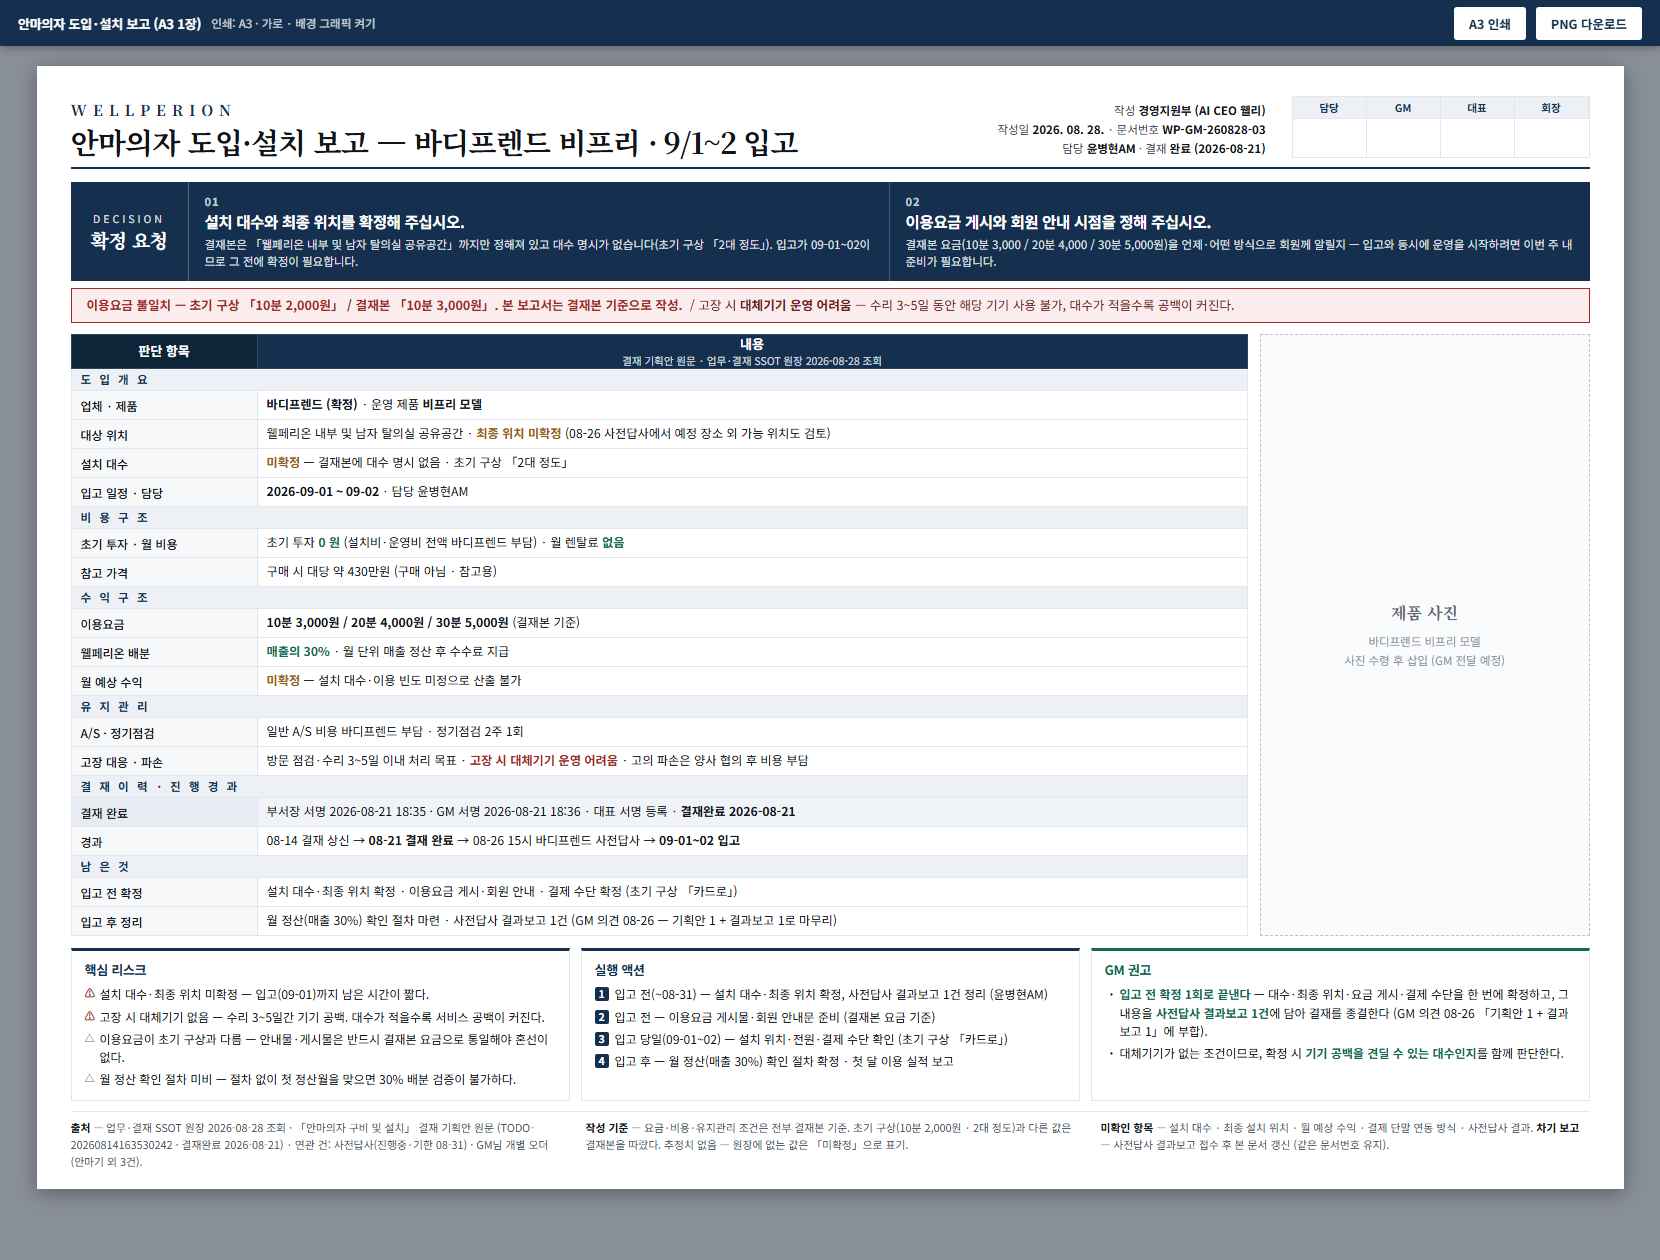
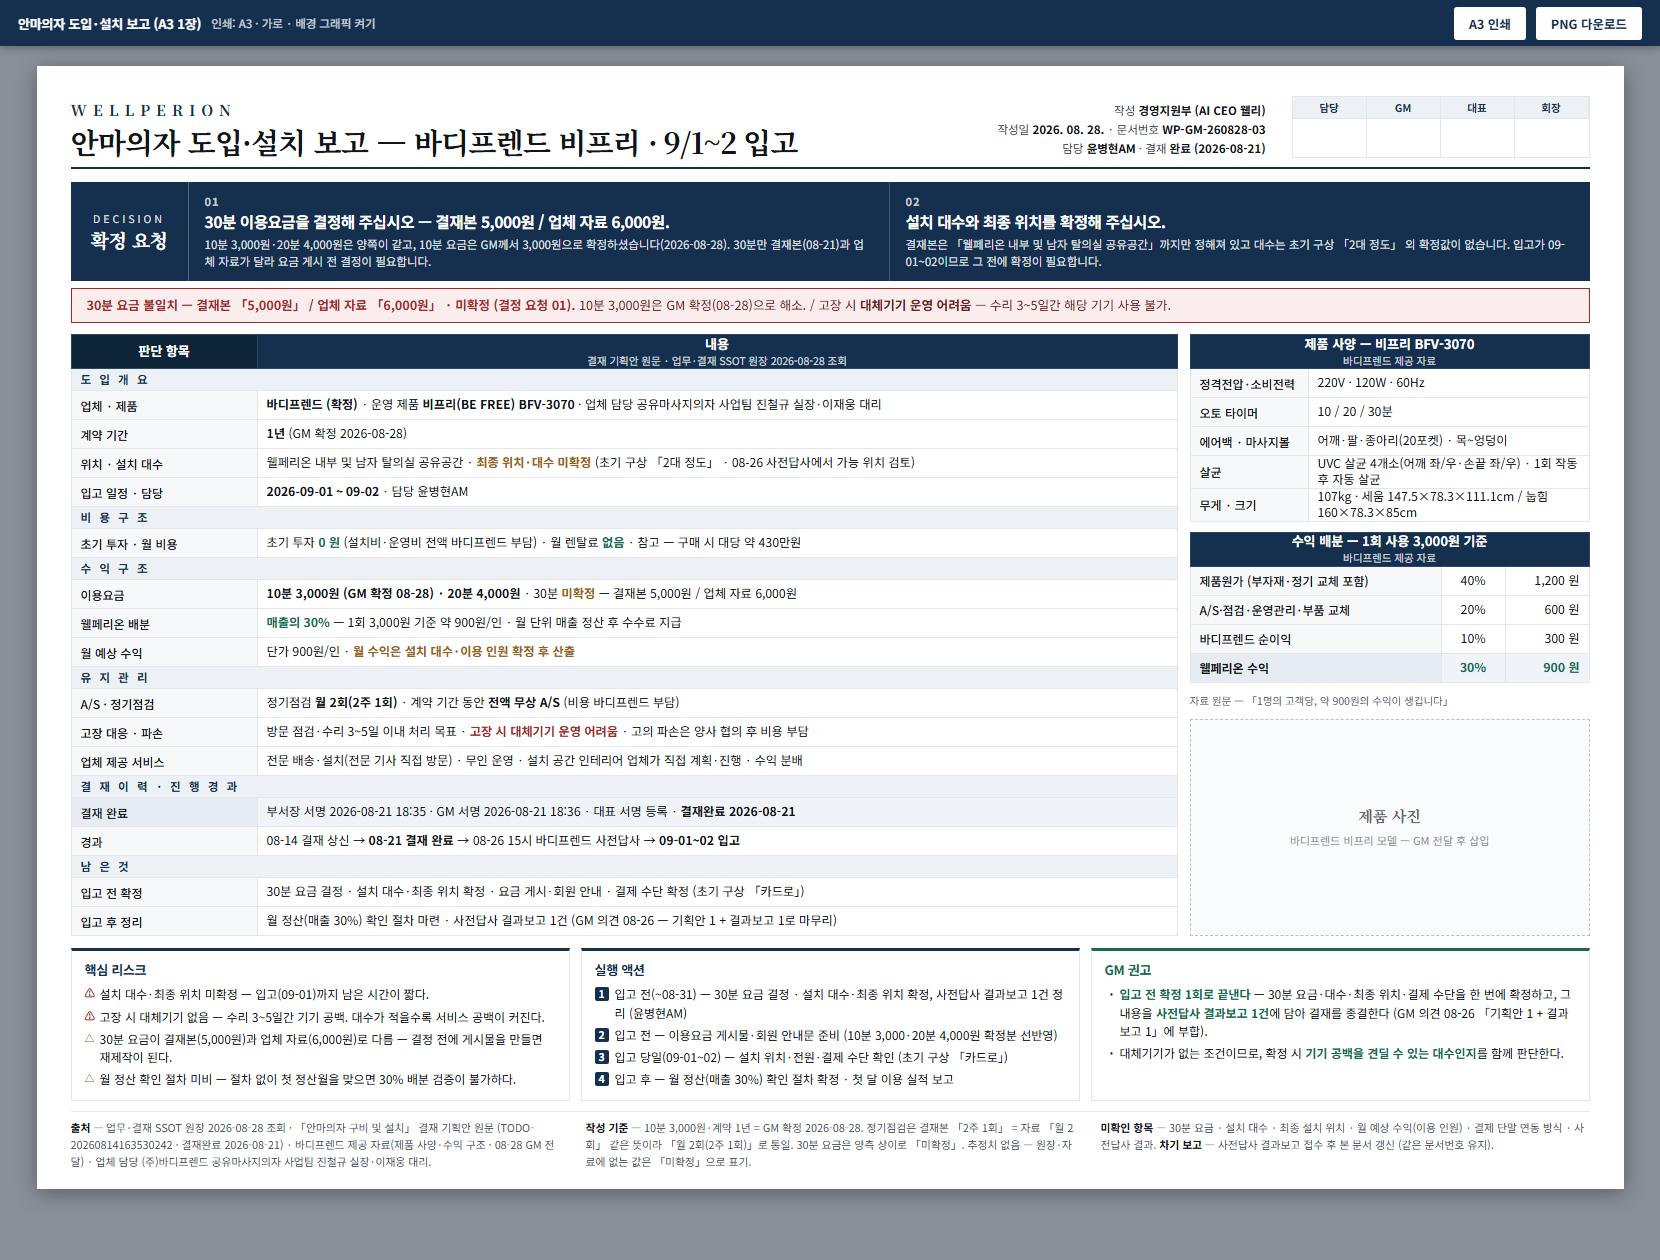
docs(ceo): 안마의자 A3 갱신 — 제품사양·수익배분 반영, 1년계약·10분 3,000원 GM 확정, 30분 요금 결정요청 (2026-08-28)

diff --git a/3. 웰페리온 가이드/reports/260828_안마의자_도입설치_A3.html b/3. 웰페리온 가이드/reports/260828_안마의자_도입설치_A3.html
@@ -146,21 +146,21 @@
     <div class="items">
       <div class="it">
         <div class="n">01</div>
-        <div class="q">설치 대수와 최종 위치를 확정해 주십시오.</div>
-        <div class="d">결재본은 「웰페리온 내부 및 남자 탈의실 공유공간」까지만 정해져 있고 대수 명시가 없습니다(초기 구상 「2대 정도」). 입고가 09-01~02이므로 그 전에 확정이 필요합니다.</div>
+        <div class="q">30분 이용요금을 결정해 주십시오 — 결재본 5,000원 / 업체 자료 6,000원.</div>
+        <div class="d">10분 3,000원·20분 4,000원은 양쪽이 같고, 10분 요금은 GM께서 3,000원으로 확정하셨습니다(2026-08-28). 30분만 결재본(08-21)과 업체 자료가 달라 요금 게시 전 결정이 필요합니다.</div>
       </div>
       <div class="it">
         <div class="n">02</div>
-        <div class="q">이용요금 게시와 회원 안내 시점을 정해 주십시오.</div>
-        <div class="d">결재본 요금(10분 3,000 / 20분 4,000 / 30분 5,000원)을 언제·어떤 방식으로 회원께 알릴지 — 입고와 동시에 운영을 시작하려면 이번 주 내 준비가 필요합니다.</div>
+        <div class="q">설치 대수와 최종 위치를 확정해 주십시오.</div>
+        <div class="d">결재본은 「웰페리온 내부 및 남자 탈의실 공유공간」까지만 정해져 있고 대수는 초기 구상 「2대 정도」 외 확정값이 없습니다. 입고가 09-01~02이므로 그 전에 확정이 필요합니다.</div>
       </div>
     </div>
   </div>
 
   <!-- 경고 밴드 -->
   <div class="alert">
-    이용요금 불일치 — 초기 구상 「10분 2,000원」 / 결재본 「10분 3,000원」. 본 보고서는 결재본 기준으로 작성.
-    <span>&nbsp;/ 고장 시 <b>대체기기 운영 어려움</b> — 수리 3~5일 동안 해당 기기 사용 불가, 대수가 적을수록 공백이 커진다.</span>
+    30분 요금 불일치 — 결재본 「5,000원」 / 업체 자료 「6,000원」 · 미확정 (결정 요청 01).
+    <span>10분 3,000원은 GM 확정(08-28)으로 해소.&nbsp;/ 고장 시 <b>대체기기 운영 어려움</b> — 수리 3~5일간 해당 기기 사용 불가.</span>
   </div>
 
   <!-- ③ 표 + 사진 자리 -->
@@ -176,37 +176,61 @@
     </thead>
     <tbody>
       <tr class="grp"><td colspan="2">도 입 개 요</td></tr>
-      <tr><td class="k">업체 · 제품</td><td><b>바디프렌드 (확정)</b> · 운영 제품 <b>비프리 모델</b></td></tr>
-      <tr><td class="k">대상 위치</td><td>웰페리온 내부 및 남자 탈의실 공유공간 · <span class="warn">최종 위치 미확정</span> (08-26 사전답사에서 예정 장소 외 가능 위치도 검토)</td></tr>
-      <tr><td class="k">설치 대수</td><td><span class="warn">미확정</span> — 결재본에 대수 명시 없음 · 초기 구상 「2대 정도」</td></tr>
+      <tr><td class="k">업체 · 제품</td><td><b>바디프렌드 (확정)</b> · 운영 제품 <b>비프리(BE FREE) BFV-3070</b> · 업체 담당 공유마사지의자 사업팀 진철규 실장·이재웅 대리</td></tr>
+      <tr><td class="k">계약 기간</td><td><b>1년</b> (GM 확정 2026-08-28)</td></tr>
+      <tr><td class="k">위치 · 설치 대수</td><td>웰페리온 내부 및 남자 탈의실 공유공간 · <span class="warn">최종 위치·대수 미확정</span> (초기 구상 「2대 정도」 · 08-26 사전답사에서 가능 위치 검토)</td></tr>
       <tr><td class="k">입고 일정 · 담당</td><td><b>2026-09-01 ~ 09-02</b> · 담당 윤병현AM</td></tr>
 
       <tr class="grp"><td colspan="2">비 용 구 조</td></tr>
-      <tr><td class="k">초기 투자 · 월 비용</td><td>초기 투자 <span class="good">0 원</span> (설치비·운영비 전액 바디프렌드 부담) · 월 렌탈료 <span class="good">없음</span></td></tr>
-      <tr><td class="k">참고 가격</td><td>구매 시 대당 약 430만원 (구매 아님 · 참고용)</td></tr>
+      <tr><td class="k">초기 투자 · 월 비용</td><td>초기 투자 <span class="good">0 원</span> (설치비·운영비 전액 바디프렌드 부담) · 월 렌탈료 <span class="good">없음</span> · 참고 — 구매 시 대당 약 430만원</td></tr>
 
       <tr class="grp"><td colspan="2">수 익 구 조</td></tr>
-      <tr><td class="k">이용요금</td><td><b>10분 3,000원 / 20분 4,000원 / 30분 5,000원</b> (결재본 기준)</td></tr>
-      <tr><td class="k">웰페리온 배분</td><td><b class="good">매출의 30%</b> · 월 단위 매출 정산 후 수수료 지급</td></tr>
-      <tr><td class="k">월 예상 수익</td><td><span class="warn">미확정</span> — 설치 대수·이용 빈도 미정으로 산출 불가</td></tr>
+      <tr><td class="k">이용요금</td><td><b>10분 3,000원 (GM 확정 08-28) · 20분 4,000원</b> · 30분 <span class="warn">미확정</span> — 결재본 5,000원 / 업체 자료 6,000원</td></tr>
+      <tr><td class="k">웰페리온 배분</td><td><b class="good">매출의 30%</b> — 1회 3,000원 기준 약 900원/인 · 월 단위 매출 정산 후 수수료 지급</td></tr>
+      <tr><td class="k">월 예상 수익</td><td>단가 900원/인 · <span class="warn">월 수익은 설치 대수·이용 인원 확정 후 산출</span></td></tr>
 
       <tr class="grp"><td colspan="2">유 지 관 리</td></tr>
-      <tr><td class="k">A/S · 정기점검</td><td>일반 A/S 비용 바디프렌드 부담 · 정기점검 2주 1회</td></tr>
+      <tr><td class="k">A/S · 정기점검</td><td>정기점검 <b>월 2회(2주 1회)</b> · 계약 기간 동안 <b>전액 무상 A/S</b> (비용 바디프렌드 부담)</td></tr>
       <tr><td class="k">고장 대응 · 파손</td><td>방문 점검·수리 3~5일 이내 처리 목표 · <span class="bad">고장 시 대체기기 운영 어려움</span> · 고의 파손은 양사 협의 후 비용 부담</td></tr>
+      <tr><td class="k">업체 제공 서비스</td><td>전문 배송·설치(전문 기사 직접 방문) · 무인 운영 · 설치 공간 인테리어 업체가 직접 계획·진행 · 수익 분배</td></tr>
 
       <tr class="grp"><td colspan="2">결 재 이 력 · 진 행 경 과</td></tr>
       <tr class="sum"><td class="k">결재 완료</td><td>부서장 서명 2026-08-21 18:35 · GM 서명 2026-08-21 18:36 · 대표 서명 등록 · <b>결재완료 2026-08-21</b></td></tr>
       <tr><td class="k">경과</td><td>08-14 결재 상신 → <b>08-21 결재 완료</b> → 08-26 15시 바디프렌드 사전답사 → <b>09-01~02 입고</b></td></tr>
 
       <tr class="grp"><td colspan="2">남 은 것</td></tr>
-      <tr><td class="k">입고 전 확정</td><td>설치 대수·최종 위치 확정 · 이용요금 게시·회원 안내 · 결제 수단 확정 (초기 구상 「카드로」)</td></tr>
+      <tr><td class="k">입고 전 확정</td><td>30분 요금 결정 · 설치 대수·최종 위치 확정 · 요금 게시·회원 안내 · 결제 수단 확정 (초기 구상 「카드로」)</td></tr>
       <tr><td class="k">입고 후 정리</td><td>월 정산(매출 30%) 확인 절차 마련 · 사전답사 결과보고 1건 (GM 의견 08-26 — 기획안 1 + 결과보고 1로 마무리)</td></tr>
     </tbody>
   </table>
   </div>
-  <div style="width:330px; flex:none; border:1.5px dashed #B9C2CC; background:#FAFBFC; display:flex; flex-direction:column; align-items:center; justify-content:center; text-align:center; padding:20px;">
-    <div style="font-family:'Noto Serif KR',serif; font-size:16px; font-weight:700; color:#5C666F;">제품 사진</div>
-    <div style="font-size:11.5px; color:#8A939C; margin-top:8px; line-height:1.6;">바디프렌드 비프리 모델<br>사진 수령 후 삽입 (GM 전달 예정)</div>
+  <div style="width:400px; flex:none; display:flex; flex-direction:column; gap:10px;">
+    <table>
+      <colgroup><col style="width:118px"><col></colgroup>
+      <thead><tr><th colspan="2">제품 사양 — 비프리 BFV-3070<span class="sub">바디프렌드 제공 자료</span></th></tr></thead>
+      <tbody>
+        <tr><td class="k">정격전압·소비전력</td><td>220V · 120W · 60Hz</td></tr>
+        <tr><td class="k">오토 타이머</td><td>10 / 20 / 30분</td></tr>
+        <tr><td class="k">에어백 · 마사지볼</td><td>어깨·팔·종아리(20포켓) · 목~엉덩이</td></tr>
+        <tr><td class="k">살균</td><td>UVC 살균 4개소(어깨 좌/우·손끝 좌/우) · 1회 작동 후 자동 살균</td></tr>
+        <tr><td class="k">무게 · 크기</td><td>107kg · 세움 147.5×78.3×111.1cm / 눕힘 160×78.3×85cm</td></tr>
+      </tbody>
+    </table>
+    <table>
+      <colgroup><col><col style="width:64px"><col style="width:84px"></colgroup>
+      <thead><tr><th colspan="3">수익 배분 — 1회 사용 3,000원 기준<span class="sub">바디프렌드 제공 자료</span></th></tr></thead>
+      <tbody>
+        <tr><td class="k">제품원가 (부자재·정기 교체 포함)</td><td class="ctr">40%</td><td class="num">1,200 원</td></tr>
+        <tr><td class="k">A/S·점검·운영관리·부품 교체</td><td class="ctr">20%</td><td class="num">600 원</td></tr>
+        <tr><td class="k">바디프렌드 순이익</td><td class="ctr">10%</td><td class="num">300 원</td></tr>
+        <tr class="sum"><td class="k strong">웰페리온 수익</td><td class="ctr strong good">30%</td><td class="num strong good">900 원</td></tr>
+      </tbody>
+    </table>
+    <div style="font-size:10.5px; color:#5C666F; line-height:1.5;">자료 원문 — 「1명의 고객당, 약 900원의 수익이 생깁니다」</div>
+    <div style="flex:1; border:1.5px dashed #B9C2CC; background:#FAFBFC; display:flex; flex-direction:column; align-items:center; justify-content:center; text-align:center; padding:14px;">
+      <div style="font-family:'Noto Serif KR',serif; font-size:15px; font-weight:700; color:#5C666F;">제품 사진</div>
+      <div style="font-size:11px; color:#8A939C; margin-top:6px; line-height:1.6;">바디프렌드 비프리 모델 — GM 전달 후 삽입</div>
+    </div>
   </div>
   </div>
 
@@ -217,15 +241,15 @@
       <ul>
         <li class="r1">설치 대수·최종 위치 미확정 — 입고(09-01)까지 남은 시간이 짧다.</li>
         <li class="r1">고장 시 대체기기 없음 — 수리 3~5일간 기기 공백. 대수가 적을수록 서비스 공백이 커진다.</li>
-        <li class="r2">이용요금이 초기 구상과 다름 — 안내물·게시물은 반드시 결재본 요금으로 통일해야 혼선이 없다.</li>
+        <li class="r2">30분 요금이 결재본(5,000원)과 업체 자료(6,000원)로 다름 — 결정 전에 게시물을 만들면 재제작이 된다.</li>
         <li class="r2">월 정산 확인 절차 미비 — 절차 없이 첫 정산월을 맞으면 30% 배분 검증이 불가하다.</li>
       </ul>
     </div>
     <div class="box">
       <h3>실행 액션</h3>
       <ul class="ord">
-        <li class="n">입고 전(~08-31) — 설치 대수·최종 위치 확정, 사전답사 결과보고 1건 정리 (윤병현AM)</li>
-        <li class="n">입고 전 — 이용요금 게시물·회원 안내문 준비 (결재본 요금 기준)</li>
+        <li class="n">입고 전(~08-31) — 30분 요금 결정 · 설치 대수·최종 위치 확정, 사전답사 결과보고 1건 정리 (윤병현AM)</li>
+        <li class="n">입고 전 — 이용요금 게시물·회원 안내문 준비 (10분 3,000·20분 4,000원 확정분 선반영)</li>
         <li class="n">입고 당일(09-01~02) — 설치 위치·전원·결제 수단 확인 (초기 구상 「카드로」)</li>
         <li class="n">입고 후 — 월 정산(매출 30%) 확인 절차 확정 · 첫 달 이용 실적 보고</li>
       </ul>
@@ -233,7 +257,7 @@
     <div class="box rec">
       <h3>GM 권고</h3>
       <ul>
-        <li><b>입고 전 확정 1회로 끝낸다</b> — 대수·최종 위치·요금 게시·결제 수단을 한 번에 확정하고, 그 내용을 <b>사전답사 결과보고 1건</b>에 담아 결재를 종결한다 (GM 의견 08-26 「기획안 1 + 결과보고 1」에 부합).</li>
+        <li><b>입고 전 확정 1회로 끝낸다</b> — 30분 요금·대수·최종 위치·결제 수단을 한 번에 확정하고, 그 내용을 <b>사전답사 결과보고 1건</b>에 담아 결재를 종결한다 (GM 의견 08-26 「기획안 1 + 결과보고 1」에 부합).</li>
         <li>대체기기가 없는 조건이므로, 확정 시 <b>기기 공백을 견딜 수 있는 대수인지</b>를 함께 판단한다.</li>
       </ul>
     </div>
@@ -241,9 +265,9 @@
 
   <!-- ⑤ 각주 -->
   <div class="foot">
-    <div><b>출처</b> — 업무·결재 SSOT 원장 2026-08-28 조회 · 「안마의자 구비 및 설치」 결재 기획안 원문 (TODO-20260814163530242 · 결재완료 2026-08-21) · 연관 건: 사전답사(진행중·기한 08-31) · GM님 개별 오더(안마기 외 3건).</div>
-    <div><b>작성 기준</b> — 요금·비용·유지관리 조건은 전부 결재본 기준. 초기 구상(10분 2,000원 · 2대 정도)과 다른 값은 결재본을 따랐다. 추정치 없음 — 원장에 없는 값은 「미확정」으로 표기.</div>
-    <div><b>미확인 항목</b> — 설치 대수 · 최종 설치 위치 · 월 예상 수익 · 결제 단말 연동 방식 · 사전답사 결과. <b>차기 보고</b> — 사전답사 결과보고 접수 후 본 문서 갱신 (같은 문서번호 유지).</div>
+    <div><b>출처</b> — 업무·결재 SSOT 원장 2026-08-28 조회 · 「안마의자 구비 및 설치」 결재 기획안 원문 (TODO-20260814163530242 · 결재완료 2026-08-21) · 바디프렌드 제공 자료(제품 사양·수익 구조 · 08-28 GM 전달) · 업체 담당 (주)바디프렌드 공유마사지의자 사업팀 진철규 실장·이재웅 대리.</div>
+    <div><b>작성 기준</b> — 10분 3,000원·계약 1년 = GM 확정 2026-08-28. 정기점검은 결재본 「2주 1회」 = 자료 「월 2회」 같은 뜻이라 「월 2회(2주 1회)」로 통일. 30분 요금은 양측 상이로 「미확정」. 추정치 없음 — 원장·자료에 없는 값은 「미확정」으로 표기.</div>
+    <div><b>미확인 항목</b> — 30분 요금 · 설치 대수 · 최종 설치 위치 · 월 예상 수익(이용 인원) · 결제 단말 연동 방식 · 사전답사 결과. <b>차기 보고</b> — 사전답사 결과보고 접수 후 본 문서 갱신 (같은 문서번호 유지).</div>
   </div>
 
 </div>
